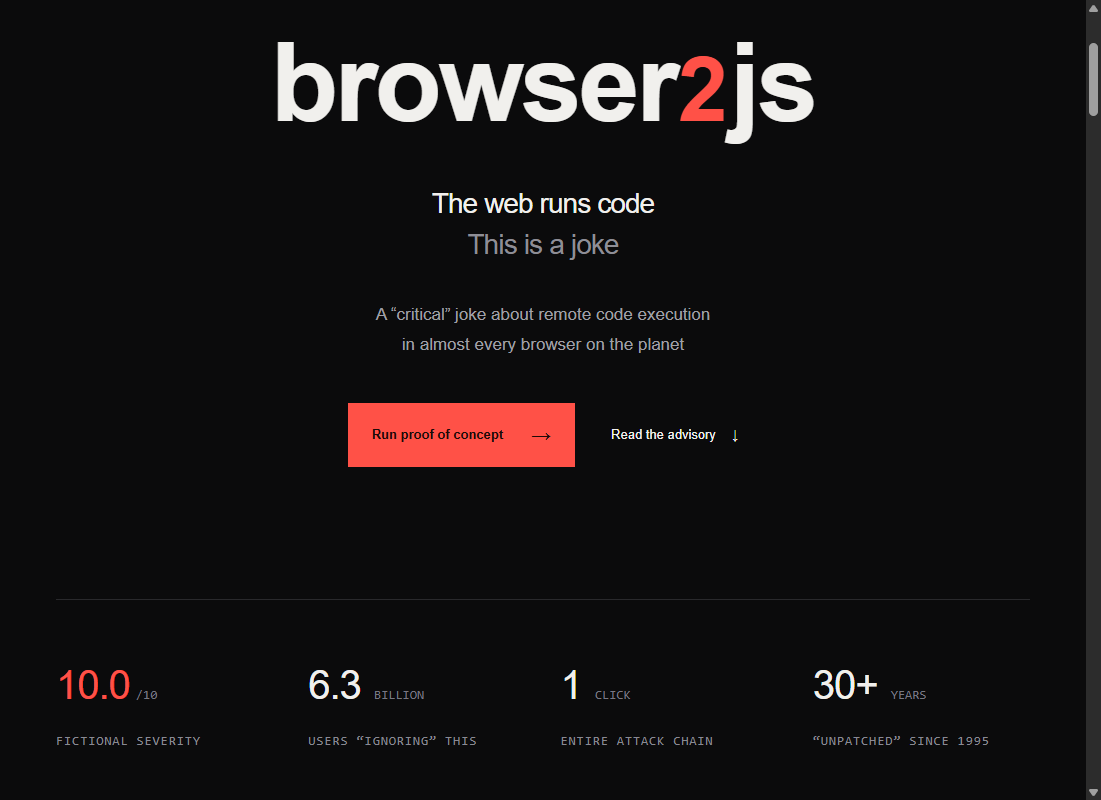
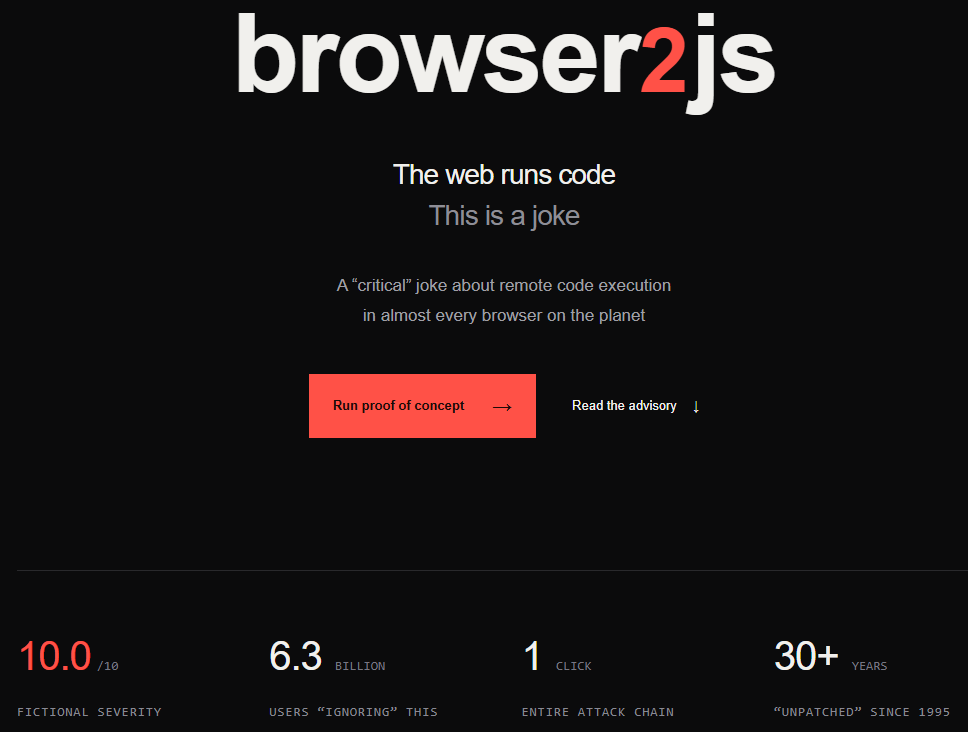
Add fictional disclosure timeline and refresh screenshot Assisted-by: ChatGPT

diff --git a/src/index.html b/src/index.html
@@ -16,16 +16,16 @@
   <meta property="og:url" content="https://browser2js.github.io/">
   <meta property="og:site_name" content="Browser2JS">
   <meta property="og:locale" content="en_US">
-  <meta property="og:image" content="https://browser2js.github.io/assets/browser2js-preview.png">
-  <meta property="og:image:secure_url" content="https://browser2js.github.io/assets/browser2js-preview.png">
+  <meta property="og:image" content="https://browser2js.github.io/assets/browser2js-preview.png?v=2">
+  <meta property="og:image:secure_url" content="https://browser2js.github.io/assets/browser2js-preview.png?v=2">
   <meta property="og:image:type" content="image/png">
-  <meta property="og:image:width" content="1101">
-  <meta property="og:image:height" content="800">
+  <meta property="og:image:width" content="968">
+  <meta property="og:image:height" content="732">
   <meta property="og:image:alt" content="Screenshot of Browser2JS with its black-and-red title, This is a joke message, proof-of-concept button, and fictional vulnerability statistics.">
   <meta name="twitter:card" content="summary_large_image">
   <meta name="twitter:title" content="Browser2JS — The web runs code / This is a joke">
   <meta name="twitter:description" content="One click, a safe JavaScript alert, fictional CVSS 10.0. A critical joke about the web working exactly as intended.">
-  <meta name="twitter:image" content="https://browser2js.github.io/assets/browser2js-preview.png">
+  <meta name="twitter:image" content="https://browser2js.github.io/assets/browser2js-preview.png?v=2">
   <meta name="twitter:image:alt" content="Screenshot of Browser2JS with its black-and-red title, This is a joke message, proof-of-concept button, and fictional vulnerability statistics.">
   <meta name="theme-color" content="#0b0b0c">
   <script type="application/ld+json">
@@ -36,7 +36,7 @@
     "url": "https://browser2js.github.io/",
     "description": "A satirical security advisory about ordinary JavaScript execution. This is a joke, not a real vulnerability disclosure.",
     "inLanguage": "en",
-    "image": "https://browser2js.github.io/assets/browser2js-preview.png"
+    "image": "https://browser2js.github.io/assets/browser2js-preview.png?v=2"
   }
   </script>
   <link rel="icon" href="assets/favicon.svg" type="image/svg+xml">
@@ -156,8 +156,21 @@ http.createServer((request, response) =&gt; {
         <div class="vendor-response"><span class="mini-heading">IMAGINED VENDOR RESPONSE</span><blockquote>“This is normal behavior<br>It complies with web standards”</blockquote><span class="mini-heading">IMAGINED RESEARCHER RESPONSE</span><blockquote>“Multiple vendors have refused<br>to fix the vulnerability”</blockquote><p class="small-note">Fictional exchange — nobody was contacted</p></div>
       </div>
     </section>
+    <section id="timeline" class="section shell timeline-section" aria-labelledby="timeline-title">
+      <div class="section-kicker">06 / DISCLOSURE TIMELINE</div>
+      <div class="section-heading"><h2 id="timeline-title">A very serious<br>disclosure timeline</h2><p>An entirely fictional history of an entirely normal feature</p></div>
+      <ol class="timeline-list">
+        <li><span class="timeline-year">1995</span><p>The “vulnerability” is introduced<br>Browsers begin executing JavaScript</p></li>
+        <li><span class="timeline-year">2000</span><p>The “vulnerability” is incorporated into web standards<br>Compliance is now part of the problem</p></li>
+        <li><span class="timeline-year">20??</span><p>The alleged scope of “compromise” expands<br>The web gains more capabilities</p></li>
+        <li><span class="timeline-year">20??</span><p>Entire applications are built on top of the “vulnerability”<br>The industry calls this progress</p></li>
+        <li><span class="timeline-year">2026</span><p>Researchers discover the “flaw”, write an advisory, register a domain, and notify the press</p></li>
+        <li><span class="timeline-year">2026</span><p>Other researchers scoff<br>“Not funny”</p></li>
+        <li><span class="timeline-year">2026</span><p>The disclosure process is considered complete</p></li>
+      </ol>
+    </section>
     <section id="faq" class="section shell faq-section">
-      <div class="section-kicker">06 / FREQUENTLY ALARMED QUESTIONS</div>
+      <div class="section-kicker">07 / FREQUENTLY ALARMED QUESTIONS</div>
       <div class="faq-grid"><h2>A few things<br>to clear up</h2><div class="faq-list">
         <details><summary>Is this actually a vulnerability?<span aria-hidden="true">+</span></summary><p>No. Browser2JS describes an intended feature as an alarming discovery. The severity rating and advisory identifier are fictional.</p></details>
         <details><summary>Is code from a remote server really executed?<span aria-hidden="true">+</span></summary><p>Yes. Browsers normally process JavaScript within their security boundaries. Real vulnerabilities, such as <a href="https://support.openvpn.com/hc/en-us/articles/57961148795803-Access-Server-CVE-2026-111497-in-Google-Brotli-decoder" target="_blank" rel="noreferrer">HTTP2Shell in affected browser components</a>, are a separate issue and can undermine those protections. Keep your browser up to date.</p></details>

diff --git a/src/assets/styles.css b/src/assets/styles.css
@@ -130,6 +130,16 @@ thead th:last-child, tbody td:last-child { padding-right: 0; text-align: right; 
 .mini-heading { font: 15px/1.5 var(--mono); color: #8f8f9a; letter-spacing: .8px; }
 .vendor-response blockquote { margin: 25px 0 60px; font-size: 25px; line-height: 1.6; letter-spacing: -.02em; }
 .vendor-response blockquote:last-of-type { margin-bottom: 0; color: #b9b6b2; }
+.timeline-section { border-bottom: 1px solid var(--line); }
+.timeline-list { list-style: none; margin-top: 76px; }
+.timeline-list li { position: relative; display: grid; grid-template-columns: 140px minmax(0, 1fr); gap: 48px; padding-bottom: 54px; }
+.timeline-list li::before { content: ""; position: absolute; left: 161px; top: 12px; bottom: -12px; width: 1px; background: var(--line); }
+.timeline-list li::after { content: ""; position: absolute; left: 157px; top: 12px; width: 9px; height: 9px; border-radius: 50%; background: var(--red); }
+.timeline-list li:last-child { padding-bottom: 0; }
+.timeline-list li:last-child::before { display: none; }
+.timeline-year { color: var(--red); font: 28px/1.4 var(--mono); }
+.timeline-list p { max-width: 760px; color: var(--muted); font-size: 20px; line-height: 1.8; }
+.timeline-list li:last-child p { color: var(--ink); }
 .faq-grid { display: grid; grid-template-columns: .85fr 1.15fr; gap: 100px; }
 .faq-list { border-top: 1px solid var(--line); }
 details { border-bottom: 1px solid var(--line); }
@@ -213,6 +223,12 @@ details p { margin: 0 0 30px; color: var(--muted); font-size: 15px; line-height:
   .table-note { font-size: 16px; }
   .vendor-response { padding-top: 15px; }
   .vendor-response blockquote { margin-bottom: 42px; font-size: 23px; }
+  .timeline-list { margin-top: 48px; }
+  .timeline-list li { grid-template-columns: 60px minmax(0, 1fr); gap: 30px; padding-bottom: 38px; }
+  .timeline-list li::before { left: 76px; top: 8px; bottom: -8px; }
+  .timeline-list li::after { left: 72px; top: 8px; }
+  .timeline-year { font-size: 18px; }
+  .timeline-list p { font-size: 17px; }
   .faq-grid h2 br { display: none; }
   summary { padding-block: 25px; font-size: 15px; }
   details p { font-size: 14px; }

diff --git a/README.md b/README.md
@@ -1,3 +1,3 @@
 # Browser2JS - security joke
 Static HTML, CSS and browser JavaScript for https://browser2js.github.io/.
-<img width="1101" height="800" alt="js" src="https://github.com/user-attachments/assets/4d1953ec-5312-448a-ad9d-7a76f2bffe47" />
+<img width="968" height="732" alt="Browser2JS — The web runs code / This is a joke" src="src/assets/browser2js-preview.png" />
